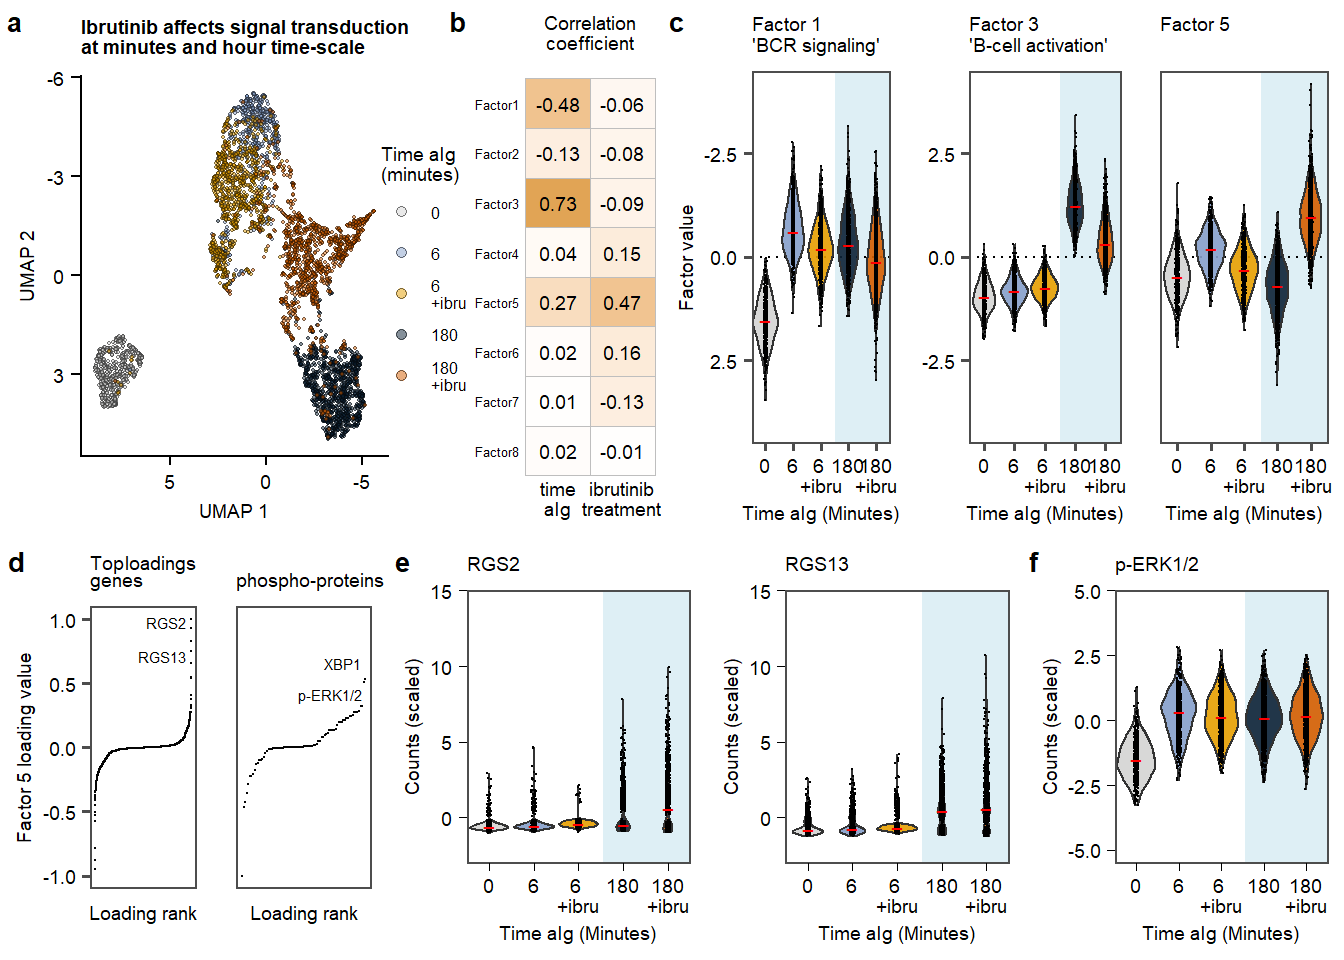
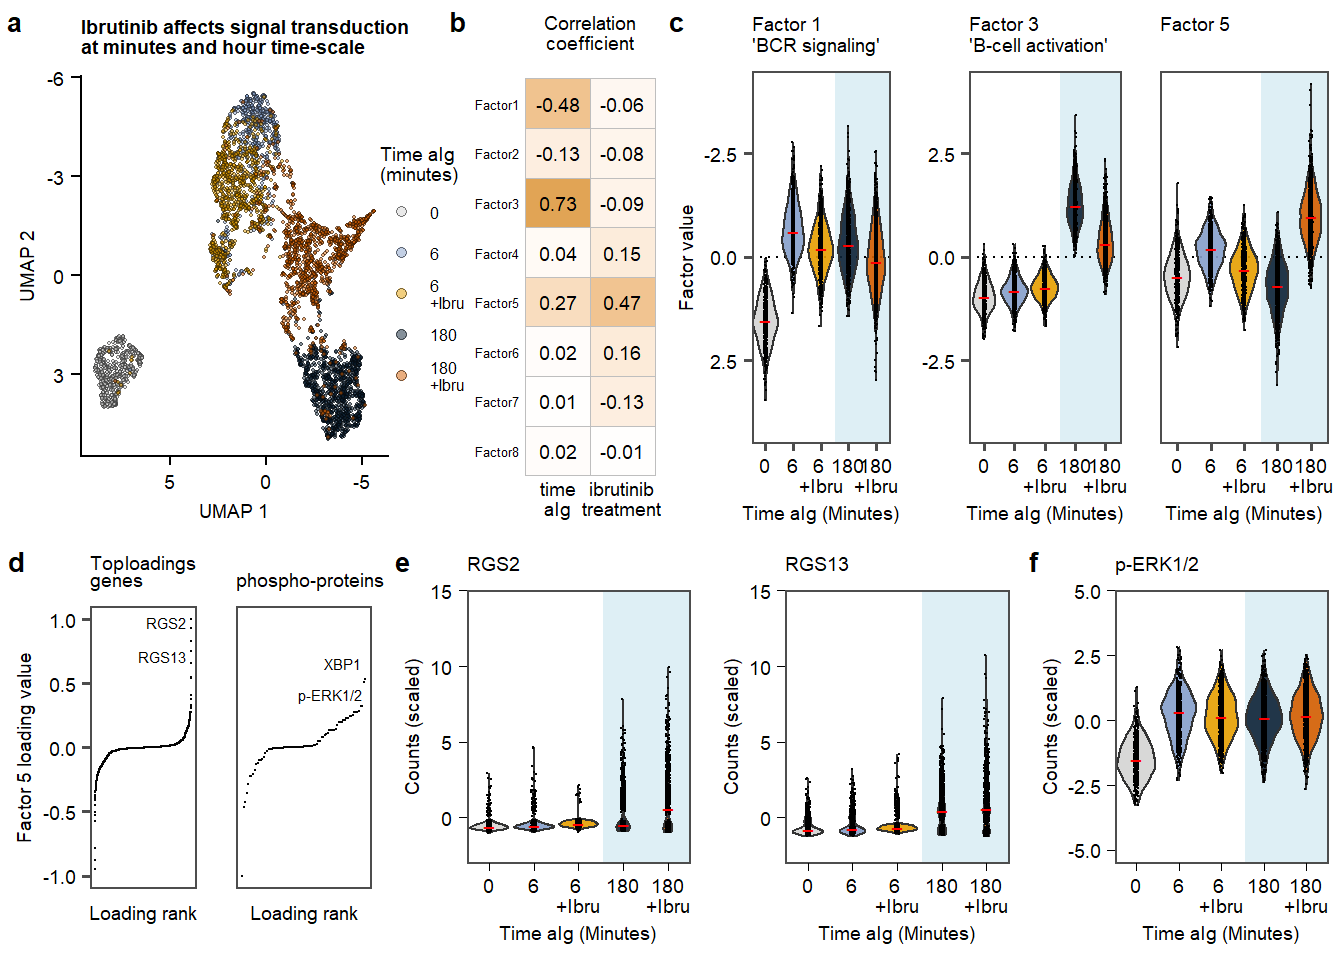
Build site.

diff --git a/docs/MOFAibru.html b/docs/MOFAibru.html
@@ -524,16 +524,16 @@ This reproducible <a href="http://rmarkdown.rstudio.com">R Markdown</a> analysis
 <div class="panel panel-default">
 <div class="panel-heading">
 <p class="panel-title">
-<a data-toggle="collapse" data-parent="#workflowr-checks" href="#strongRepositoryversionstrongahrefhttpsgithubcomjessievbQuRIEseqanalysistreecdfdb86b654e95bd6548ef94845330cda9f70d3atargetblankcdfdb86a"> <span class="glyphicon glyphicon-ok text-success" aria-hidden="true"></span> <strong>Repository version:</strong> <a href="https://github.com/jessievb/QuRIEseq_analysis/tree/cdfdb86b654e95bd6548ef94845330cda9f70d3a" target="_blank">cdfdb86</a> </a>
+<a data-toggle="collapse" data-parent="#workflowr-checks" href="#strongRepositoryversionstrongahrefhttpsgithubcomjessievbQuRIEseqanalysistreeca0d35d408bdc8d4fcbb9251150b264b4a84a8b6targetblankca0d35da"> <span class="glyphicon glyphicon-ok text-success" aria-hidden="true"></span> <strong>Repository version:</strong> <a href="https://github.com/jessievb/QuRIEseq_analysis/tree/ca0d35d408bdc8d4fcbb9251150b264b4a84a8b6" target="_blank">ca0d35d</a> </a>
 </p>
 </div>
[2 lines of base64/hex data omitted]
 <div class="panel-body">
 <p>
 Great! You are using Git for version control. Tracking code development and connecting the code version to the results is critical for reproducibility.
 </p>
 <p>
-The results in this page were generated with repository version <a href="https://github.com/jessievb/QuRIEseq_analysis/tree/cdfdb86b654e95bd6548ef94845330cda9f70d3a" target="_blank">cdfdb86</a>. See the <em>Past versions</em> tab to see a history of the changes made to the R Markdown and HTML files.
+The results in this page were generated with repository version <a href="https://github.com/jessievb/QuRIEseq_analysis/tree/ca0d35d408bdc8d4fcbb9251150b264b4a84a8b6" target="_blank">ca0d35d</a>. See the <em>Past versions</em> tab to see a history of the changes made to the R Markdown and HTML files.
 </p>
 <p>
 Note that you need to be careful to ensure that all relevant files for the analysis have been committed to Git prior to generating the results (you can use <code>wflow_publish</code> or <code>wflow_git_commit</code>). workflowr only checks the R Markdown file, but you know if there are other scripts or data files that it depends on. Below is the status of the Git repository when the results were generated:
@@ -592,6 +592,40 @@ Message
 </tr>
 </thead>
 <tbody>
+<tr>
+<td>
+Rmd
+</td>
+<td>
+<a href="https://github.com/jessievb/QuRIEseq_analysis/blob/ca0d35d408bdc8d4fcbb9251150b264b4a84a8b6/analysis/MOFAibru.Rmd" target="_blank">ca0d35d</a>
+</td>
+<td>
+Jessie van Buggenum
+</td>
+<td>
+2020-11-26
+</td>
+<td>
+update ibru to Ibru
+</td>
+</tr>
+<tr>
+<td>
+html
+</td>
+<td>
+<a href="https://rawcdn.githack.com/jessievb/QuRIEseq_analysis/b822e81a6cb209e0f4fe22bc5c079f46512f7d9c/docs/MOFAibru.html" target="_blank">b822e81</a>
+</td>
+<td>
+Jessie van Buggenum
+</td>
+<td>
+2020-11-26
+</td>
+<td>
+Build site.
+</td>
+</tr>
 <tr>
 <td>
 Rmd
@@ -887,7 +921,7 @@ colorgradient7 &lt;- c(colorgradient6,&quot;orange2&quot;)
 colorsibru &lt;- c(colorgradient7[c(1,2)],&quot;#E69F00&quot;, colorgradient7[c(6)], &quot;#D55E00&quot;,&quot;#ff0000&quot;)
 
 
-labels.withibru &lt;- c(0, 6, &quot;6 \n+ibru&quot;, 180, &quot;180\n+ibru&quot;)
+labels.withibru &lt;- c(0, 6, &quot;6 \n+Ibru&quot;, 180, &quot;180\n+Ibru&quot;)
 labels.withibru.selected &lt;- c(0, 6, &quot;6 \n+Ibru&quot;, 180, &quot;180\n+Ibru&quot;,&quot;180**\n+Ibru&quot;)</code></pre>
 <pre class="r"><code>seu_combined_selectsamples.withibru &lt;- readRDS(&quot;output/seu_ibru_samples.rds&quot;)
 
